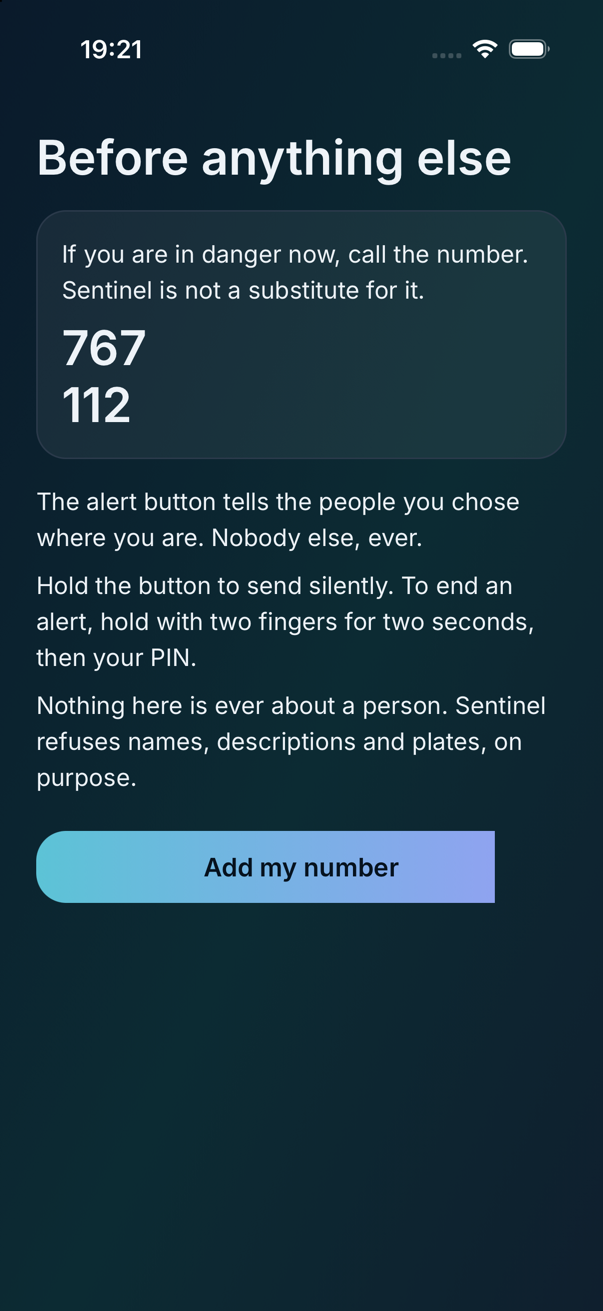
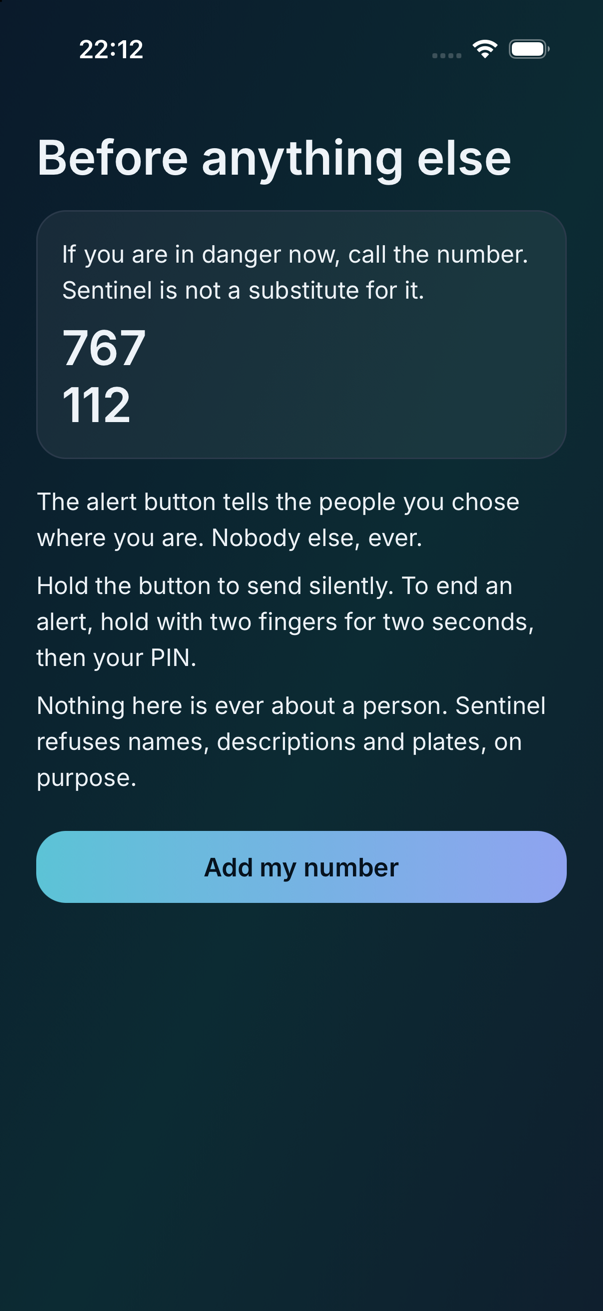
Gradient buttons paint the full width again, and nine screenshots from a simulator run that found the button, the colour order and the missing randomness.

Changed region(s): [[0.806, 0.6102, 0.9552, 0.7018], [0.1194, 0.0305, 0.2388, 0.061]]

diff --git a/apps/mobile/src/components/Actions.tsx b/apps/mobile/src/components/Actions.tsx
@@ -37,7 +37,15 @@ export function PrimaryAction({
       delayLongPress={1500}
       style={({ pressed }) => [styles.primary, { minHeight: target[size], opacity: disabled ? 0.5 : pressed ? 0.85 : 1 }]}
     >
-      <Svg style={StyleSheet.absoluteFill} width="100%" height="100%" preserveAspectRatio="none" viewBox="0 0 100 100">
+      {/*
+        Sized by `absoluteFill` alone. It also carried width="100%"
+        height="100%", and those fight it: absoluteFill pins left and right,
+        the props set an explicit width, and react-native-svg resolved the
+        pair to a box narrower than the button — so the gradient stopped
+        about 86% of the way across while the label stayed centred on the
+        full width. It read as a button that had not finished drawing.
+      */}
+      <Svg style={StyleSheet.absoluteFill} preserveAspectRatio="none" viewBox="0 0 100 100">
         <Defs>
           <LinearGradient id="brand" x1="0" y1="0" x2="1" y2="0">
             <Stop offset="0" stopColor={c.accent} />

diff --git a/README.md b/README.md
@@ -220,21 +220,36 @@ cancel, and the sentence that says how it is done.
 
 ### The first simulator run
 
-| Before anything else | Tonight | My circle |
+| Before anything else | Tonight | Start a journey |
 |---|---|---|
-| ![The welcome screen: the official numbers for your state, first and largest, above the sentence that Sentinel is not a substitute for them](docs/screenshots/01-before-anything-else.png) | ![The home screen: the emergency numbers, then the one gradient control, Alert my circle, and beneath it the journey and the circle](docs/screenshots/03-tonight.png) | ![My circle: nobody yet, and the sentence saying they accept first and either of you can end it at any time without saying why](docs/screenshots/04-my-circle.png) |
+| ![The welcome screen: the official numbers for your state, first and largest, above the sentence that Sentinel is not a substitute for them](docs/screenshots/01-before-anything-else.png) | ![The home screen: the emergency numbers, then the one gradient control, Alert my circle, and beneath it the journey and the circle](docs/screenshots/04-tonight.png) | ![Start a journey: where and when, who is told if you do not confirm, and a card saying what happens — including that it happens even if the phone dies or has no signal](docs/screenshots/05-start-a-journey.png) |
 
-| Settings | Near you, with no fix |
-|---|---|
-| ![Settings: your number becomes a code before it leaves the phone, and the two PINs — the second opens a screen that looks idle and tells your circle you were made to](docs/screenshots/02-settings.png) | ![Near you: Sentinel needs to know where you are to show what is near you, and this phone has no fix](docs/screenshots/05-near-you-no-fix.png) |
+| Watch me home | My circle | Near you, with no fix |
+|---|---|---|
+| ![Watch me home: twenty minutes, one person, your position sealed to her alone, ending by itself — and no escalation, for which it points at a journey](docs/screenshots/06-watch-me-home.png) | ![My circle: nobody yet, and the sentence saying they accept first and either of you can end it at any time, without saying why](docs/screenshots/07-my-circle.png) | ![Near you: Sentinel needs to know where you are to show what is near you, and this phone has no fix](docs/screenshots/08-near-you.png) |
 
-**What the run found.** Two defects that no test could have: the app did not
-start at all, because `crypto.getRandomValues` does not exist in Hermes and
-every device key begins there ([ADR-0014](docs/adr/0014-randomness-comes-from-the-platform-or-the-app-does-not-start.md));
-and every glass surface rendered as a solid block of accent, because the six
+| Settings | Settings, filled in | Large controls |
+|---|---|---|
+| ![Settings: your number becomes a code before it leaves the phone, and the two PINs — the second opens a screen that looks idle and tells your circle you were made to](docs/screenshots/02-settings.png) | ![The same screen with a number and a name entered, and Save now enabled](docs/screenshots/03-settings-filled.png) | ![Settings with Large controls on](docs/screenshots/09-large-controls.png) |
+
+**What the run found.** Three defects that no test could have.
+
+The app **did not start at all**: `crypto.getRandomValues` does not exist in
+Hermes and every device key begins there
+([ADR-0014](docs/adr/0014-randomness-comes-from-the-platform-or-the-app-does-not-start.md)).
+
+Every glass surface **rendered as a solid block of accent**, because the six
 `glass*` tokens were written `#AARRGGBB` and React Native reads `#RRGGBBAA` —
-so each text field in Settings was opaque cyan with the placeholder
-unreadable on top of it. `design-check` now fails on both orders.
+so each text field in Settings was opaque cyan with the placeholder unreadable
+on top of it. `design-check` and `contrast.test.ts` both parsed them the same
+wrong way, so all three agreed on a colour that was never on the screen. All
+three read `#RRGGBBAA` now, and the gate refuses the other order.
+
+And **every gradient button stopped about 86% of the way across** while its
+label stayed centred on the full width, so the primary control on each screen
+read as one that had not finished drawing. The gradient is an SVG pinned with
+`absoluteFill`, and it also carried `width="100%" height="100%"`; the two
+fight, and react-native-svg resolved them to a box narrower than the button.
 
 *Nothing on these screens is a record.* The number and name are typed into a
 simulator; no alert has been sent, and none of the trigger paths has met a

diff --git a/docs/JOURNAL.md b/docs/JOURNAL.md
@@ -280,3 +280,67 @@ screen-reader user would have found it first.
   the reading, not for this keyboard.
 - Trigger paths (ADR-0006 #11) and the BLE mesh (#20) are native code that
   cannot be seen to work without handsets, and were not written blind.
+
+## 2026-09-22 — The first simulator run
+
+### What we did
+
+Built and ran the app on a simulator for the first time, fixed the three
+defects that run exposed, strengthened the two guards that should have caught
+one of them, and captured nine screenshots.
+
+### What surprised us
+
+**The app had never started.** Every device key begins with random bytes,
+`@noble/*` asks `crypto.getRandomValues` for them, and Hermes does not have
+it — so the first render threw before anything was drawn. The domain tests
+never saw it, because Node has Web Crypto and because every crypto function
+takes an injectable `random` the tests supply. The one call site that does not
+inject is `keystore.ts`, which mints the device's own keys at launch, and that
+only runs on a device. Fixed with the platform CSPRNG and **no fallback**
+(ADR-0014): a security product that will not start is a bug; one that starts
+with predictable keys is a breach, and the failure has to be the first.
+
+**Three files agreed on a colour that was never on the screen.** The six
+`glass*` tokens were written `#AARRGGBB` — the Android order. React Native
+reads `#RRGGBBAA`, so `glassMid: '#B3FFFFFF'`, meant as white at 70%,
+rendered as opaque cyan: every text field in Settings was a solid block of
+accent with the placeholder unreadable on top of it.
+
+The second half is the part worth keeping. `design-check` compared DESIGN.md
+against tokens.ts and they matched — both were wrong the same way. And
+`contrast.test.ts` took the alpha off the front and the colour off the back,
+so it computed the contrast of white at 70%, asserted it passed, and was right
+about a colour the app never drew. **Two guards, one blind spot, and 186 green
+tests over a surface nobody would ever see.** All three read `#RRGGBBAA` now;
+`design-check` gained two rules — an eight-digit token ending in `FF` is
+refused, and a `glass*` token whose RGB is not white is refused — and was
+broken on purpose with the original value and watched to fail on both before
+being put back.
+
+**A third one a person saw and I did not.** Every gradient button painted
+about 86% of the way across. I had already captured five screenshots with the
+defect in them and not registered it, because the label stays centred on the
+*full* width — so the control looks deliberate until you notice its right edge
+does not line up with the glass button directly beneath it. The gradient is an
+SVG pinned by `absoluteFill` that also carried `width="100%" height="100%"`;
+absoluteFill pins left and right, the props set an explicit width, and
+react-native-svg resolved the pair to a box narrower than the button.
+
+The lesson is not about SVG. Reading a screen is a different act from testing
+one, and neither replaces the other — I had run the tests and looked at the
+pictures, and it still took somebody else saying *the buttons are not
+complete*.
+
+**A build fix that was not ours to leave.** CocoaPods writes the pods project's
+deployment floor from the oldest any pod declares — 12.4 — and Xcode 27 refuses
+anything below 15, so the generated project would not compile at all. The
+`post_install` hook raises every pod to the app's own floor rather than to
+Xcode's minimum: two numbers that must agree are better kept as one.
+
+### Still open
+
+- Nine screens captured. The alert in progress and the duress decoy want a run
+  of their own.
+- Nothing here is a hardware result. Panic latency, the trigger paths and the
+  abuse model still want a handset, a stopwatch and an outside reader.

diff --git a/CHANGELOG.md b/CHANGELOG.md
@@ -7,6 +7,11 @@ project is pre-release, so everything is under Unreleased until v1.0.
 
 ### Fixed
 
+- **Gradient buttons are the width of the button again.** The primary control
+  on every screen painted its gradient about 86% of the way across while its
+  label stayed centred on the full width, so it read as a control that had not
+  finished drawing.
+
 - **The app now starts.** Every device key begins with random bytes, and the
   JavaScript runtime React Native uses has no `crypto.getRandomValues`, so the
   first render threw before anything was drawn. Randomness now comes from the
